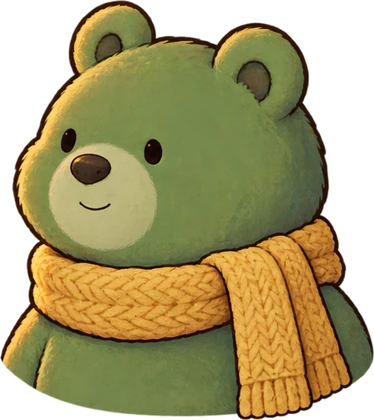
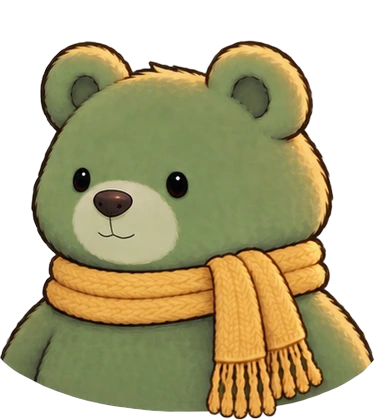
BGB portraits: mirrored 8-expression set (gaze to centre, knot on right); enable laugh/sad/stern/relieved for BGB
Claude-Session: https://claude.ai/code/session_01AUyQGBnShhd9gkNdWBzHyS

diff --git a/prototype/bell_village_web/index.html b/prototype/bell_village_web/index.html
@@ -1230,7 +1230,7 @@ Object.assign(D, {
   ci6_1: {sp:"bgb", ex:"neutral", t:{en:"Compare the clues on the Identity Board under People. After that, I have to see Green at the Old Mill.", ko:"사람 탭의 신원 보드에서 단서를 맞춰 보자. 그다음엔 낡은 방앗간의 Green을 만나야 해."}, next:null}
 });
 const SP = { ed:{name:{en:"Edward",ko:"에드워드"}, img:"assets/edward_front.webp", por:"assets/por_edward_"}, kid:{name:{en:"Green",ko:"형"}, img:"assets/twin_elder_front.webp", por:"assets/por_elder_"}, yo:{name:{en:"Little Green",ko:"동생"}, img:"assets/twin_younger_front.webp", por:"assets/por_younger_"}, nar:{name:{en:"",ko:""}, img:"assets/twin_elder_front.webp", hide:true}, v1:{name:{en:"Villager",ko:"마을 사람"}, img:"assets/molly_front.webp", sil:true, big:"assets/sil_rabbit.webp"}, v2:{name:{en:"Villager 2",ko:"주민 2"}, img:"assets/molly_front.webp", sil:true, big:"assets/sil_goat.webp"}, mo:{name:{en:"Grandma Molly",ko:"몰리"}, img:"assets/molly_front.webp", por:"assets/por_molly_"}, gr:{name:{en:"Green",ko:"그린"}, img:"assets/green_front.webp", por:"assets/por_green_"}, tm:{name:{en:"Tommy",ko:"토미"}, img:"assets/tommy_front.webp", por:"assets/por_tommy_"}, bgb:{name:{en:"BGB",ko:"빅그베"}, img:"assets/big_green_bear_front.webp", por:"assets/por_bgb_"}, hz:{name:{en:"Hazel",ko:"헤이즐"}, img:"assets/cafe_owner_front.webp", por:"assets/por_hazel_"}, nini:{name:{en:"Nini",ko:"니니"}, img:"assets/nini_front.webp", por:"assets/por_nini_"}, ck:{name:{en:"Oliver",ko:"올리버"}, img:"assets/clockkeeper_front.webp", por:"assets/por_oliver_"} };
-const EXPR = ["neutral","worried","surprised","thinking"];
+const EXPR = ["neutral","worried","surprised","thinking"], EXPR_X = { bgb:["laugh","sad","stern","relieved"] };   /* extra expressions only some speakers have */
 
 /* ---------- state ---------- */
 const SAVE_KEY = "bgb2.bellvillage.proto.v2";   /* v2: saves from before the prologue existed would skip it, so everyone restarts once */
@@ -2168,7 +2168,7 @@ function renderDlg(anim){
   const n = D[cur]; if (!n) return; const sp = SP[n.sp];
   { const dl = $("dlg"), big = !!((sp.por || sp.big || sp.img) && !sp.hide && (!sp.sil || sp.big)), want = !!sp.hide || big; dl.classList.toggle("big", big); if (dl.classList.contains("cap") !== want){ dl.classList.toggle("cap", want); const bg = $("dlgbg"); bg._nk = null; if (dl.classList.contains("on")) nineDraw(bg); } }   /* a line of narration uses the same box without the portrait and name ribbon */
   $("dNm").textContent = tr(sp.name); $("dNm").style.visibility = sp.hide ? "hidden" : ""; $("dPor").style.visibility = sp.hide ? "hidden" : "";
-  const ex = EXPR.includes(n.ex) ? n.ex : "neutral"; // each line picks its expression; speakers without portraits keep the still
+  const ex = (EXPR.includes(n.ex) || (EXPR_X[n.sp]||[]).includes(n.ex)) ? n.ex : "neutral"; // each line picks its expression; speakers without portraits keep the still
   const portrait = sp.por ? sp.por + ex + ".webp" : sp.img; $("dPor").classList.toggle("silh", !!sp.sil); $("dPor").classList.toggle("pz", !!sp.por);   /* silhouette until the real portrait exists */
   if ($("dPor").getAttribute("src") !== portrait){ $("dPor").style.opacity = 0; $("dPor").src = portrait; }
   bigSide = ((sp.por || sp.big || sp.img) && !sp.hide && (!sp.sil || sp.big)) ? (n.sp === "bgb" || n.sp === "yo" ? "r" : "l") : "";   /* who gets the close-up: anyone with expression portraits, on the side away from the answers */
